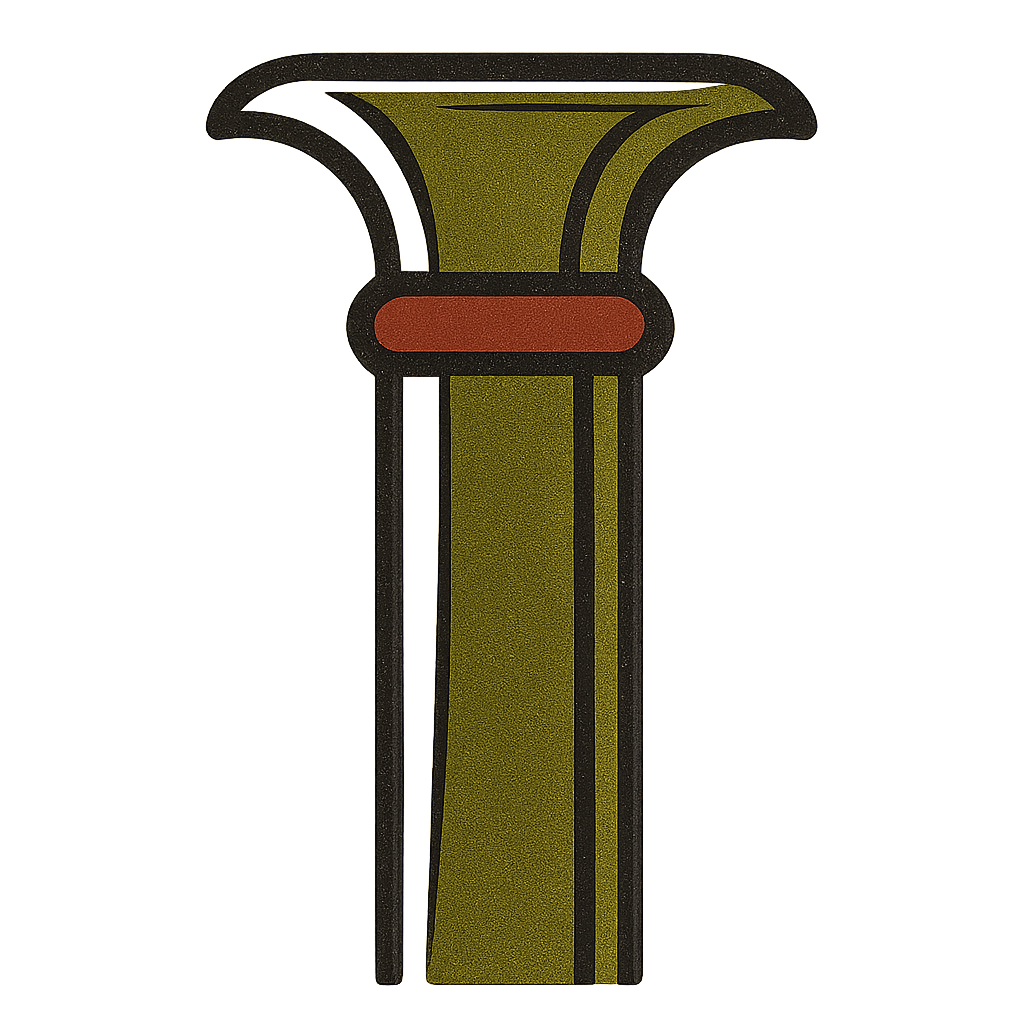
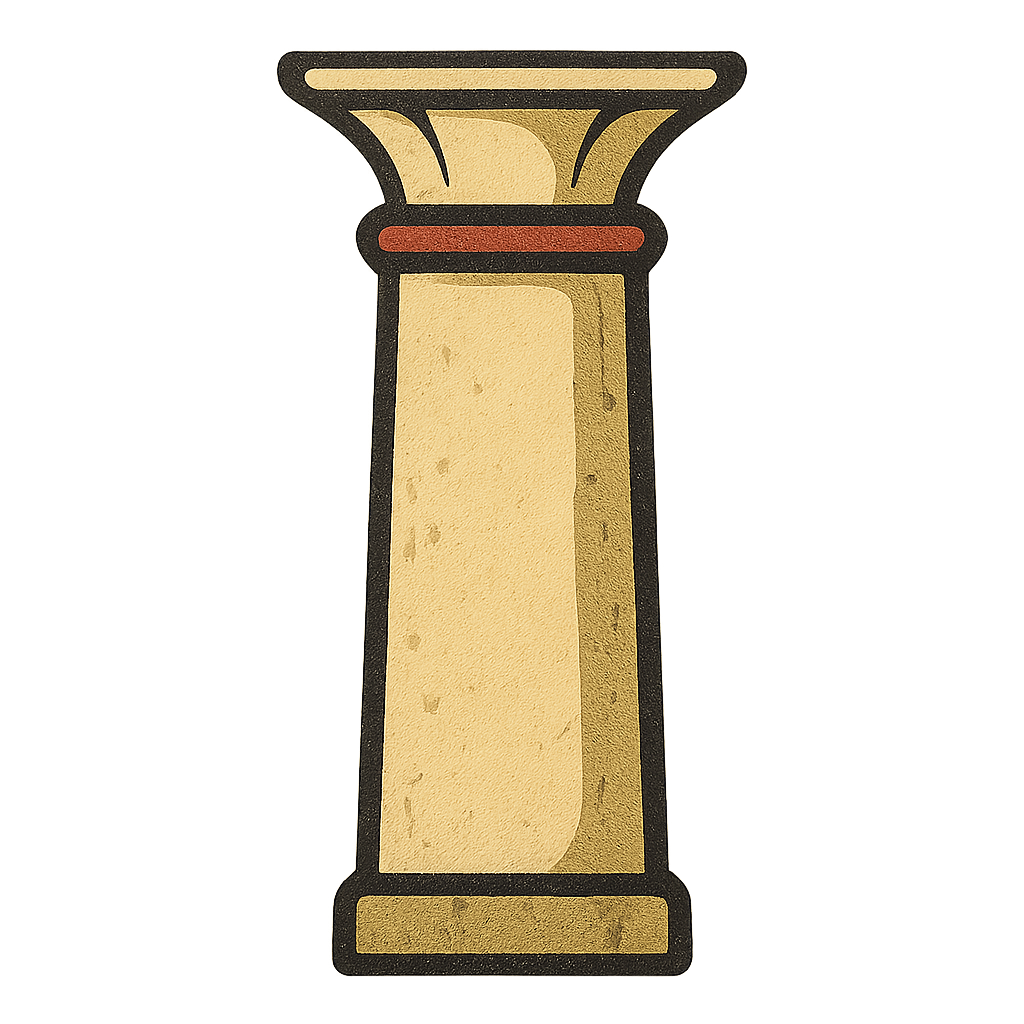
chore(regen): apply pipe v2-a stone pillar pick
Renames the chosen variant to public/assets/pipe.png (replacing the
v1 olive-green column from Slice 7), removes the two rejected
variants. Same texture key, same display dimensions, so this is a
pure asset swap with no code or test changes.

docs/AESTHETIC.md prompt-library entry updated: v2 subject prompt
recorded verbatim with attribution to Copilot Coding Agent, v2
iteration log with chosen variant + reasons for the other two
rejections (including the note that Matthew prioritized aesthetic
character over the most-tile-friendly silhouette this round), and
the gameplay caveat about the slight base flare on v2-a.

docs/SLICES.md adds a chore entry for the regen round. Three
lessons recorded: (1) Copilot Coding Agent doesn't reliably expose
Agents-bucket secrets to process.env as of May 2026 — see project
memory entry; (2) the local-fallback path in AGENTS.md § Asset
regeneration worked as drafted on first contact; (3) cross-round
lesson propagation worked — Copilot read the prior pipe-tiling
lesson from docs/SLICES.md and embedded "no pedestal or base"
directly in the v2 subject prompt without being asked.

Changed region(s): [[0.1875, 0.0312, 0.8125, 0.9688]]

diff --git a/docs/AESTHETIC.md b/docs/AESTHETIC.md
@@ -289,9 +289,9 @@ noise at display size, suppress with an explicit "no sticker
 border, no die-cut edge, no double outline" addition to the
 negatives block.
 
-### 2. Pipe (Slice 7)
+### 2. Pipe (Slice 7, regen round v2)
 
-**Status:** approved (`v1-c`).
+**Status:** approved (`v2-a`, superseded the v1 olive-green column).
 
 **Target:** tall vertical obstacle, transparent PNG. Generate at
 1024×1024; Phaser scales / crops to the in-game aspect. We trust
@@ -313,17 +313,43 @@ passed as the `image[]` reference, plus the "match the visual style
 of the reference image exactly" preamble. Same model / size / quality
 / background / output as the bird.
 
+**Subject prompt v2 (current — replaced v1 after Matthew asked for a stone pillar instead of an olive-green column):**
+
+```
+A tall vertical stone obstacle pillar with a flared decorative cap at one end, in Belle-Epoque poster style. Carved limestone body in warm cream and olive-gray tones, with ivory edge highlights and a restrained oxblood accent band where the cap flares. Heavy black outline and subtle aged-stone texture. Keep the silhouette simple and legible at small phone size. The pillar stem must tile cleanly when stacked vertically with no pedestal or base.
+```
+
+The v2 prompt was drafted by Copilot Coding Agent on PR #59 and used
+verbatim — it correctly carried forward the Slice 7 lesson about
+gameplay-driven tiling ("no pedestal or base") that was in
+`docs/SLICES.md`. Worth knowing the lesson-propagation worked: a
+downstream agent picked up an earlier round's deferred-list item
+without being told to.
+
 **Iteration log:**
 - v1 — three medium-quality variants generated; `v1-c` chosen (tall
-  flared cap with oxblood neck band, no pedestal base; the only one
-  of the three that's tile-friendly for off-screen-bottom extension).
-  `v1-a` and `v1-b` had decorative pedestals — read fine as ornaments
-  but break the "infinite stem" illusion the game needs.
+  flared olive-green cap with oxblood neck band, no pedestal base;
+  the only one of the three that was tile-friendly for off-screen-
+  bottom extension). `v1-a` and `v1-b` had decorative pedestals —
+  read fine as ornaments but broke the "infinite stem" illusion the
+  game needs. Shipped on PR #55, then superseded by v2.
+- v2 — Matthew asked for a stone pillar instead of the olive-green
+  column. Three medium-quality variants generated locally (Copilot
+  Coding Agent could not access `OPENAI_API_KEY` from the Agents
+  bucket — known GitHub bug, see project memory). `v2-a` chosen:
+  sharp Doric-style flat cap, lightest weathering, slight base
+  flare. `v2-b` (more articulated multi-tier neck) and `v2-c`
+  (no-pedestal flat cap, most tile-friendly) rejected on aesthetics
+  even though `c` was the most gameplay-correct choice — Matthew
+  prioritized the period-poster character over the pure
+  no-pedestal silhouette.
 
-**Output:** `public/assets/pipe.png` (chosen). Lesson for future
-asset prompts: when an asset has gameplay-driven tiling requirements,
-state them in the subject prompt explicitly, not just in the doc
-prose around it.
+**Output:** `public/assets/pipe.png` (chosen). Note: the v2-a base
+flare is subtle but present. In normal gameplay the bottom of the
+bottom-pipe is at or near the canvas bottom so the flare reads as
+"column meeting ground" and looks fine. If we ever scroll pipes
+through visible negative space below the gap, this would need a
+Phaser crop or a v3 round.
 
 **Cohesion check:** the bird-as-reference mechanism held. All three
 pipe variants kept the bird's olive-yellow body, oxblood accent,

diff --git a/docs/SLICES.md b/docs/SLICES.md
@@ -18,6 +18,23 @@ Slice format:
 
 ## Shipped
 
+### chore — Pipe regen v2 (stone pillar)
+**Shipped:** 2026-05-14, PR #59
+**What:** Replaced the v1 olive-green column with a stone pillar (`v2-a`: sharp Doric-style flat cap, lightest weathering of three variants, slight base flare). Same texture key (`pipe`) and same Phaser display dimensions, so this is a pure asset swap — no code or test changes. Documented in `docs/AESTHETIC.md` § Prompt library § 2. Pipe.
+
+**The agentic-workflow story:** Matthew opened issue #58 ("change the PNG for pillar/pipe") from phone and assigned `@copilot`. Copilot picked it up, read the regen-asset playbook in `AGENTS.md` (added in PR #57), wrote a stone-pillar prompt at `scripts/prompts/pipe-v2.txt` that correctly carried forward the prior round's "no pedestal" lesson without being told to, ran the generation script, and hit a hard env-var error: `OPENAI_API_KEY is not set in the environment.` despite the secret being present in the Agents bucket. After two retries produced the identical error, the local-fallback path documented in `AGENTS.md` § Asset regeneration took over — checked out Copilot's branch on the desktop, ran the script with the locally-present key, committed the three variants on top of Copilot's prompt commits, comment-picked from phone (`pipe: a`), shipped.
+
+**Learned:**
+- **GitHub Copilot Coding Agent doesn't reliably expose Agents-bucket secrets to `process.env`** as of May 2026. Multiple open community discussions (#160030, #164968, #177690, #165053) report the same class of failure. The docs say Agents-bucket secrets auto-expose; in practice they often don't. There is no separate Coding Agent allow-list to fix this — the only Copilot Coding Agent settings page is Internet access / Policies / Validation tools / MCP configuration. Logged in project memory as `feedback_copilot_agents_secrets.md`.
+- **The local-fallback path documented in `AGENTS.md` § Asset regeneration worked exactly as drafted.** Copilot did its non-secret work (prompt edit, defensive halt with verbatim error reporting), and the handoff to a local-run shell on Copilot's branch was a clean two-command operation (`git checkout`, `node scripts/generate-sprite.mjs`). The agentic-workflow loop didn't break — it degraded gracefully to "one machine, one phone, same picker UX."
+- **Lesson propagation between rounds worked.** Copilot read Slice 7's deferred-list item about gameplay-driven tiling from `docs/SLICES.md` and embedded "no pedestal or base" directly in the v2 subject prompt without being asked. That's the kind of cross-round learning the SLICES.md log was meant to enable.
+
+**Deferred:**
+- File a follow-up tech-debt issue investigating the Copilot env-var injection bug (or wait for GitHub to fix the open community threads). Not blocking — local-fallback works fine.
+- The v2-a base flare is subtle but present. If a future slice scrolls pipes through visible negative space below the gap (currently they don't), this needs a Phaser crop or a v3 round.
+
+---
+
 ### Slice 7 — Three sprites, real art
 **Goal:** Replace placeholder rectangles with three AI-generated sprites (bird, pipe, background prop) matching the prompt library in `docs/AESTHETIC.md`.
 **Shipped:** 2026-05-14, PR #55
